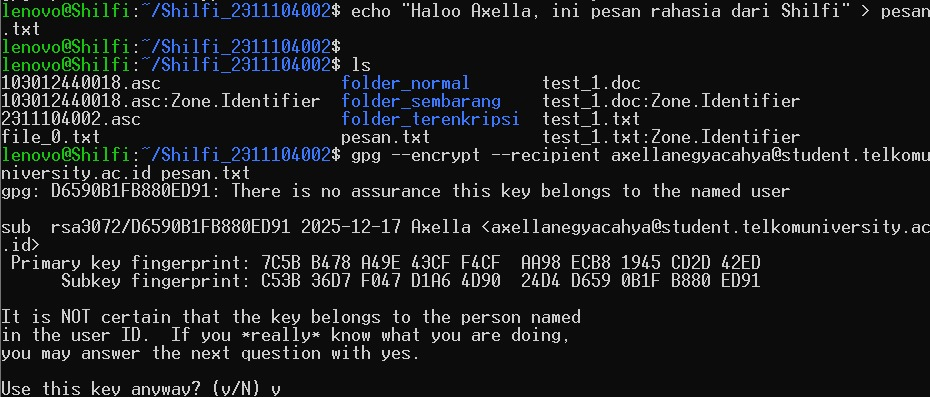
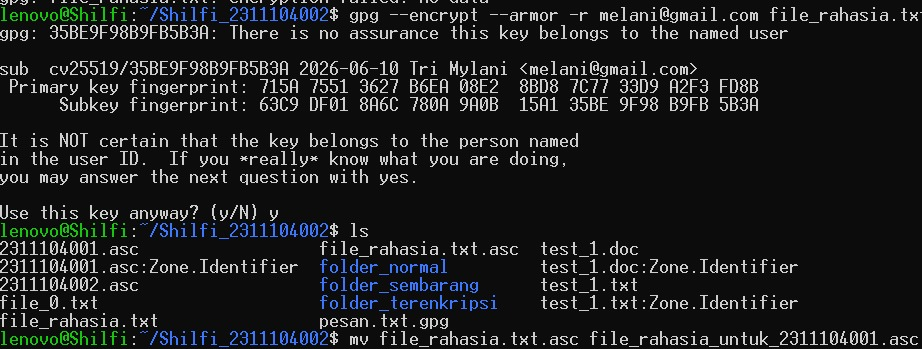
memperbaiki 5c-5e

Changed region(s): [[0.0, 0.0, 1.0, 1.0]]

diff --git a/15_Keamanan_Linux/TP_Pertemuan_Ke 15.md b/15_Keamanan_Linux/TP_Pertemuan_Ke 15.md
@@ -181,9 +181,8 @@ Lakukan perintah berikut ini untuk mengetahui daftar key yang Anda punya dan fin
 c.  Jalankan perintah ini : gpg –-armor –-export nama@email.anda > mypublic_key.asc
 File mypublic_key.asc adalah file yang akan dibagikan kepada teman-teman Anda. Teman Anda akan menggunakan kunci publik Anda jika ingin mengirim pesan rahasia kepada Anda. Hanya Anda yang dapat membaca pesan tersebut karena hanya mempunyai kunci privat yang bersesuaian dengan kunci publik Anda. 
 
-- Tujuan: Mengonversi kunci publik ke format .asc agar bisa dibagikan kepada rekan praktikan lain.
-- Langkah: Menjalankan perintah gpg --armor --export [email] > [NIM].asc. File kemudian di-rename menjadi [NIM].asc.
-- Catatan Teknis: Terdapat kendala teknis pada link pengumpulan folder Google Drive, di mana tidak ditemukan folder yang sesuai dengan kelas SE0701, sehingga file dibagikan secara lokal untuk kebutuhan praktikum.
+- Tujuan: Mengonversi kunci publik ke format .asc agar bisa dibagikan kepada rekan praktikan lain melalui folder bersama.
+- Langkah: Menjalankan perintah gpg --armor --export [email_anda] > 2311104002.asc. File tersebut kemudian diunggah (upload) ke dalam folder OneDrive kelas SE 07-01 agar dapat diakses oleh teman sekelas.
 - Bukti: 
 
 ![5c](Image/5c.jpeg)
@@ -191,7 +190,7 @@ File mypublic_key.asc adalah file yang akan dibagikan kepada teman-teman Anda. T
 d. Mengimport kunci publik orang lain. Silakan download file nim_teman_sebelah_anda.asc dan jalankan perintah ini untuk mengimport (menambahkan kunci publik orang lain ke sistem Anda) : gpg –-import nim_teman_sebelah_anda.asc
 
 - Tujuan: Menambahkan kunci publik rekan praktikan ke dalam sistem GPG lokal agar dapat melakukan enkripsi pesan kepada mereka.
-- Langkah: Mengunduh kunci publik teman (contoh: 103012440018.asc) dan menjalankan perintah gpg --import 103012440018.asc.
+- Langkah: Mengunduh kunci publik milik teman sekelas, yaitu Tri Mylani dari OneDrive (file: 2311104001.asc), kemudian menjalankan perintah gpg --import 2311104001.asc untuk memasukkannya ke dalam sistem.
 - Bukti: 
 
 ![5d](Image/5d.jpeg)
@@ -199,9 +198,8 @@ d. Mengimport kunci publik orang lain. Silakan download file nim_teman_sebelah_a
 e. Buatlah file bernama file_rahasia.txt. Isi file tersebut dengan pesan rahasia Anda. Pesan inilah yang akan Anda kirim ke teman Anda. Jalankan perintah ini untuk melakukan enkripsi : //ditulis dalam satu baris
 gpg –-encrypt –-armor -r alamat_email_teman_anda_yang_baru_diimport@xxx.com file_rahasia.txt
 
-- Tujuan: Mengamankan pesan rahasia sehingga hanya pemilik kunci privat yang dituju yang dapat membukanya.
-- Langkah: Membuat file pesan.txt dengan perintah echo, kemudian menjalankan perintah gpg --encrypt --recipient [email_teman] pesan.txt.
-- Catatan: Muncul peringatan "There is no assurance this key belongs to the named user", yang menandakan kunci publik belum ditandatangani (signed). Proses dilanjutkan dengan mengonfirmasi pilihan "y" untuk melanjutkan enkripsi.
+- Tujuan: Mengamankan pesan rahasia sehingga hanya pemilik kunci privat yang dituju (Tri Mylani) yang dapat membukanya.
+- Langkah: Membuat file teks berisi pesan rahasia. Selanjutnya, melakukan enkripsi menggunakan perintah gpg --encrypt --armor -r melani@gmail.com file_rahasia.txt. File hasil enkripsi (file_rahasia.txt.asc) kemudian diubah namanya menjadi file_rahasia_untuk_2311104001.asc menggunakan perintah mv dan diunggah kembali ke OneDrive.
 - Bukti: 
 
 ![5e](Image/5e.jpeg)
@@ -209,9 +207,8 @@ gpg –-encrypt –-armor -r alamat_email_teman_anda_yang_baru_diimport@xxx.com 
 f.  Hanya teman anda yang dapat membuka file tersebut. Hasil dari proses tersebut adalah file_rahasia_untuk_teman_anda.asc (contoh: file_rahasia_untuk_130118yyyy.asc) Taruh file_rahasia_untuk_teman_anda.asc ke folder pada link: http://tiny.cc/SisopNomor5F
 Download dan buka file yang diperuntukkan bagi Anda dan lakukan dekripsi untuk melihat isi pesan dengan perintah : pg file_rahasia_nim_anda.asc
 
-- Tujuan: Membuka file terenkripsi untuk membaca pesan rahasia menggunakan kunci privat yang sesuai.
-- Langkah: Melakukan dekripsi file dengan perintah gpg -d pesan.txt.gpg > hasil_buka_pesan.txt, kemudian membaca isi file dengan cat hasil_buka_pesan.txt.
-- Catatan: Dekripsi dilakukan untuk menguji validitas enkripsi. Proses ini berhasil mengembalikan pesan ke format teks asli, yang membuktikan bahwa kunci privat yang digunakan sesuai dengan kunci publik saat enkripsi.
+- Tujuan: Membuka file terenkripsi dari teman rekan praktikan untuk membaca pesan rahasia menggunakan kunci privat milik sendiri.
+- Langkah: Mengunduh file rahasia yang ditujukan untuk NIM 2311104002 dari folder OneDrive. Kemudian melakukan dekripsi file tersebut menggunakan perintah gpg -d [nama_file_dari_teman].asc. Sistem akan meminta passphrase (password) dari kunci privat untuk memverifikasi dan menampilkan isi pesan.
 - Bukti: 
 
 ![5f](Image/5f.jpeg)
